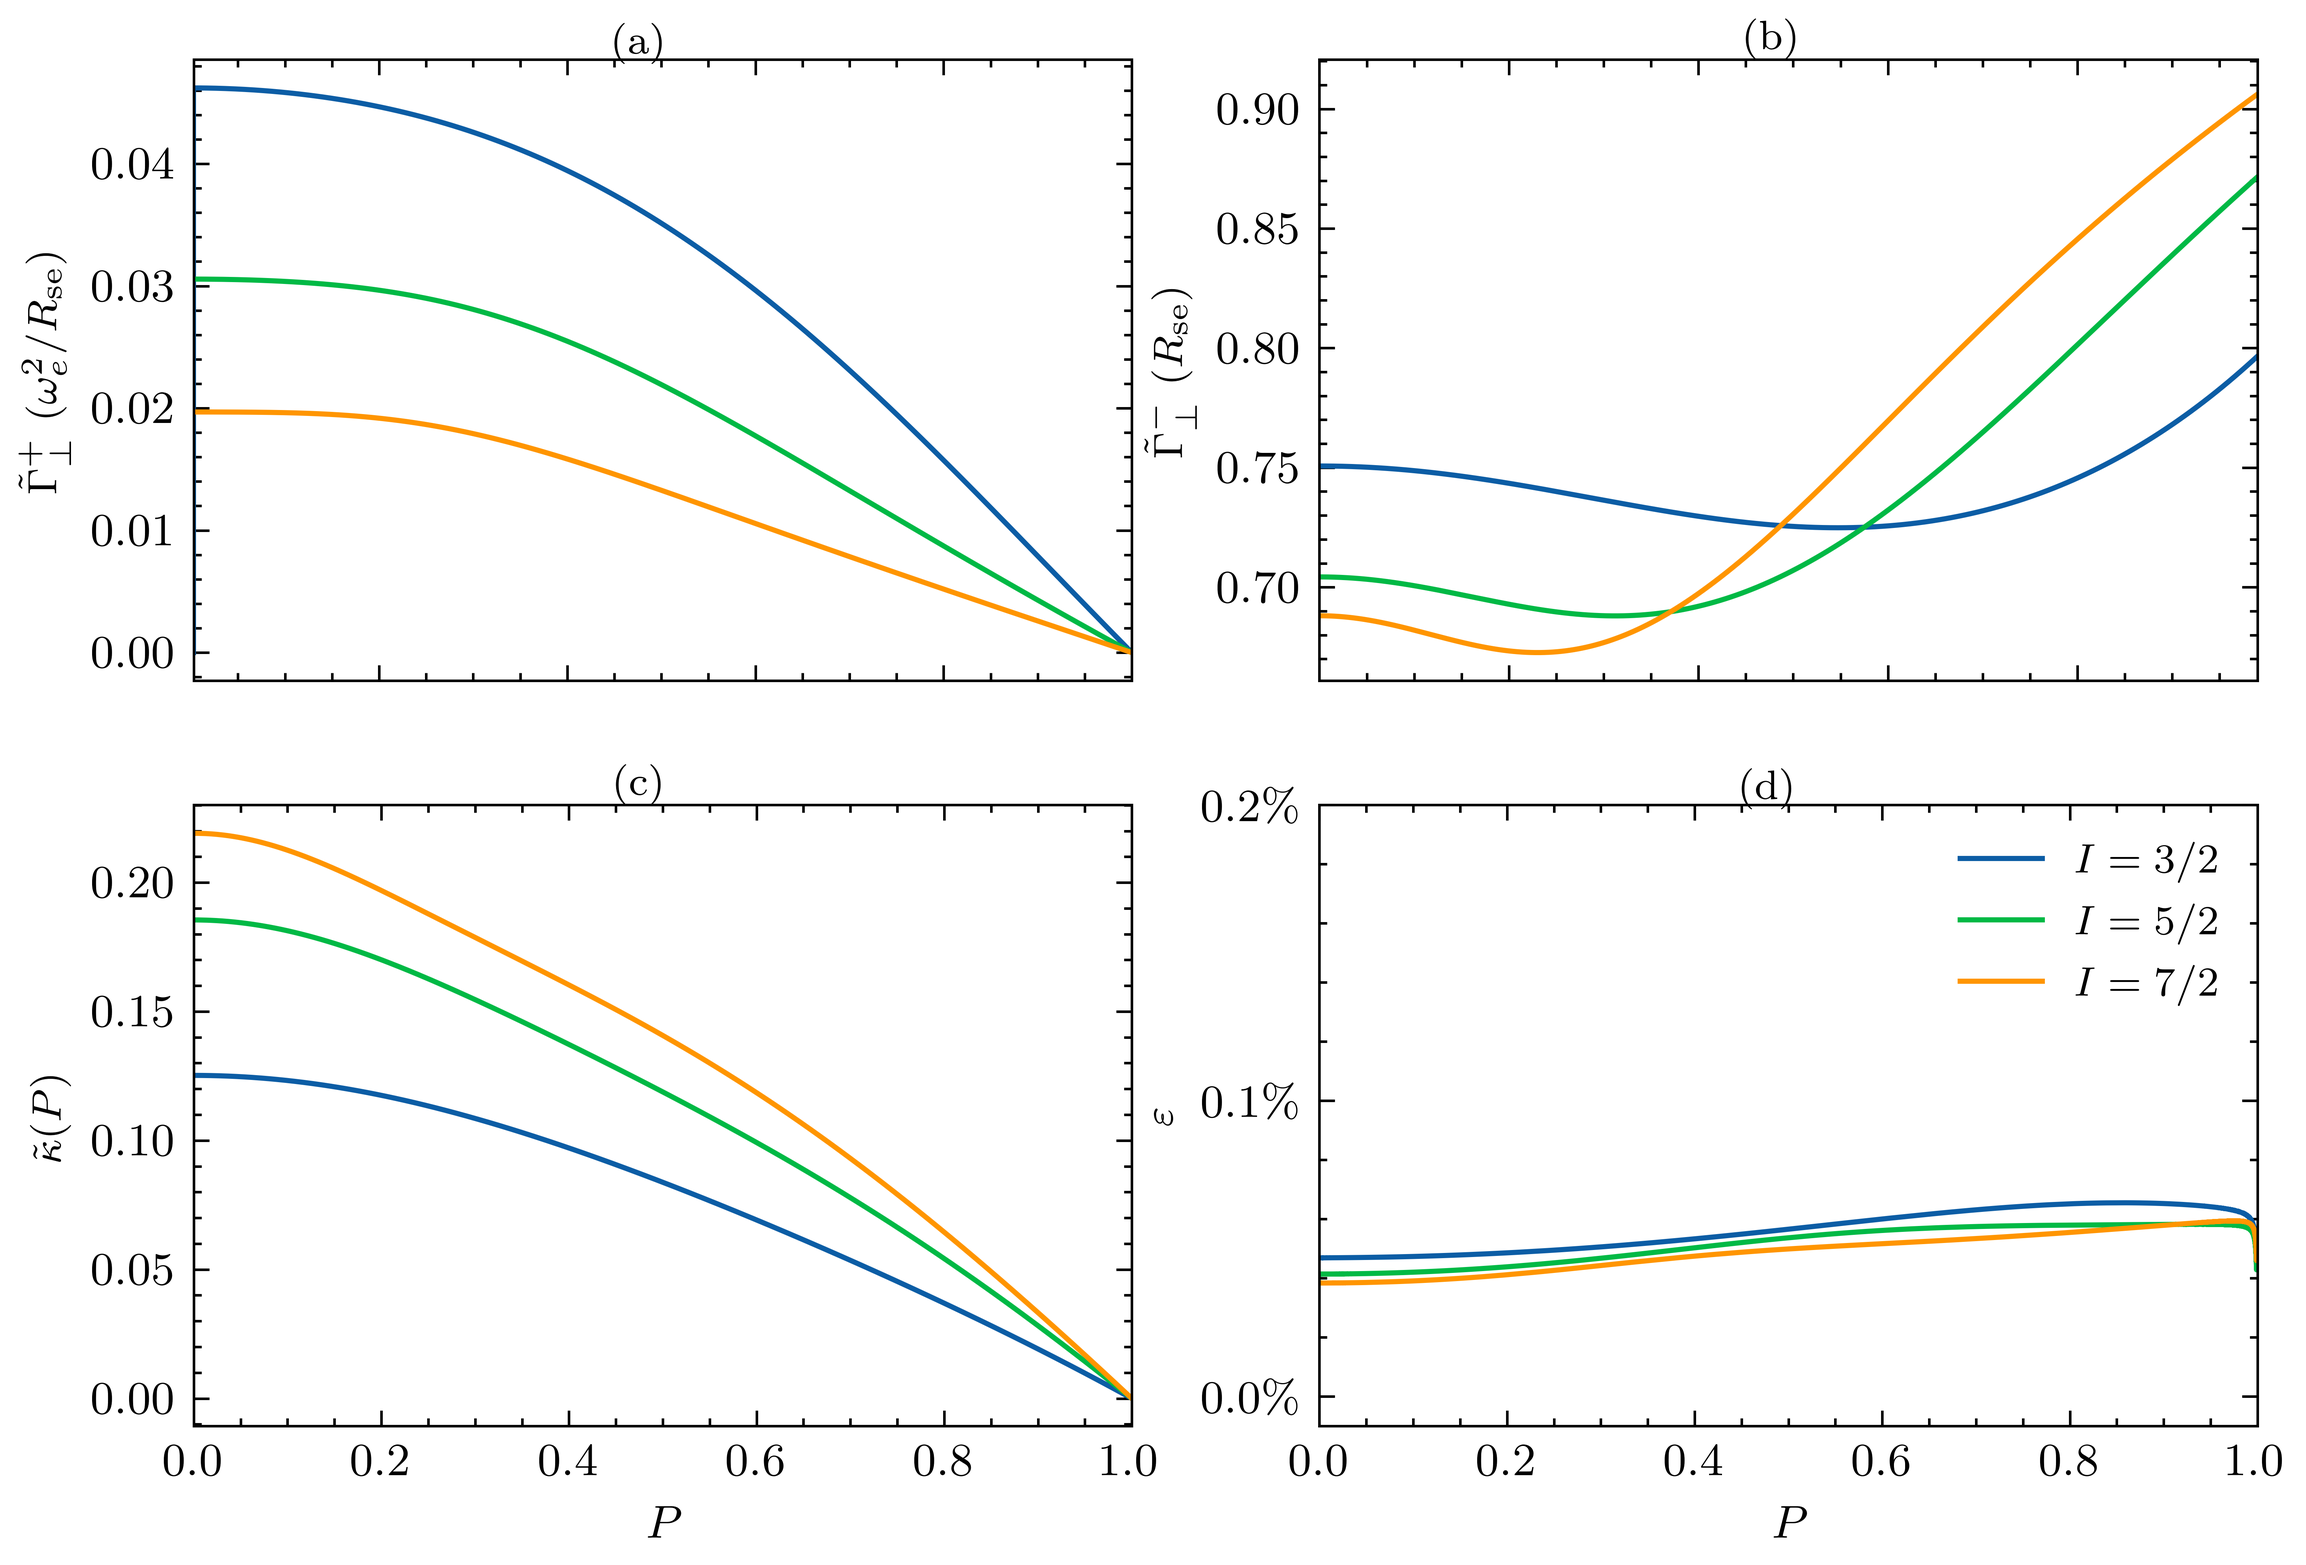
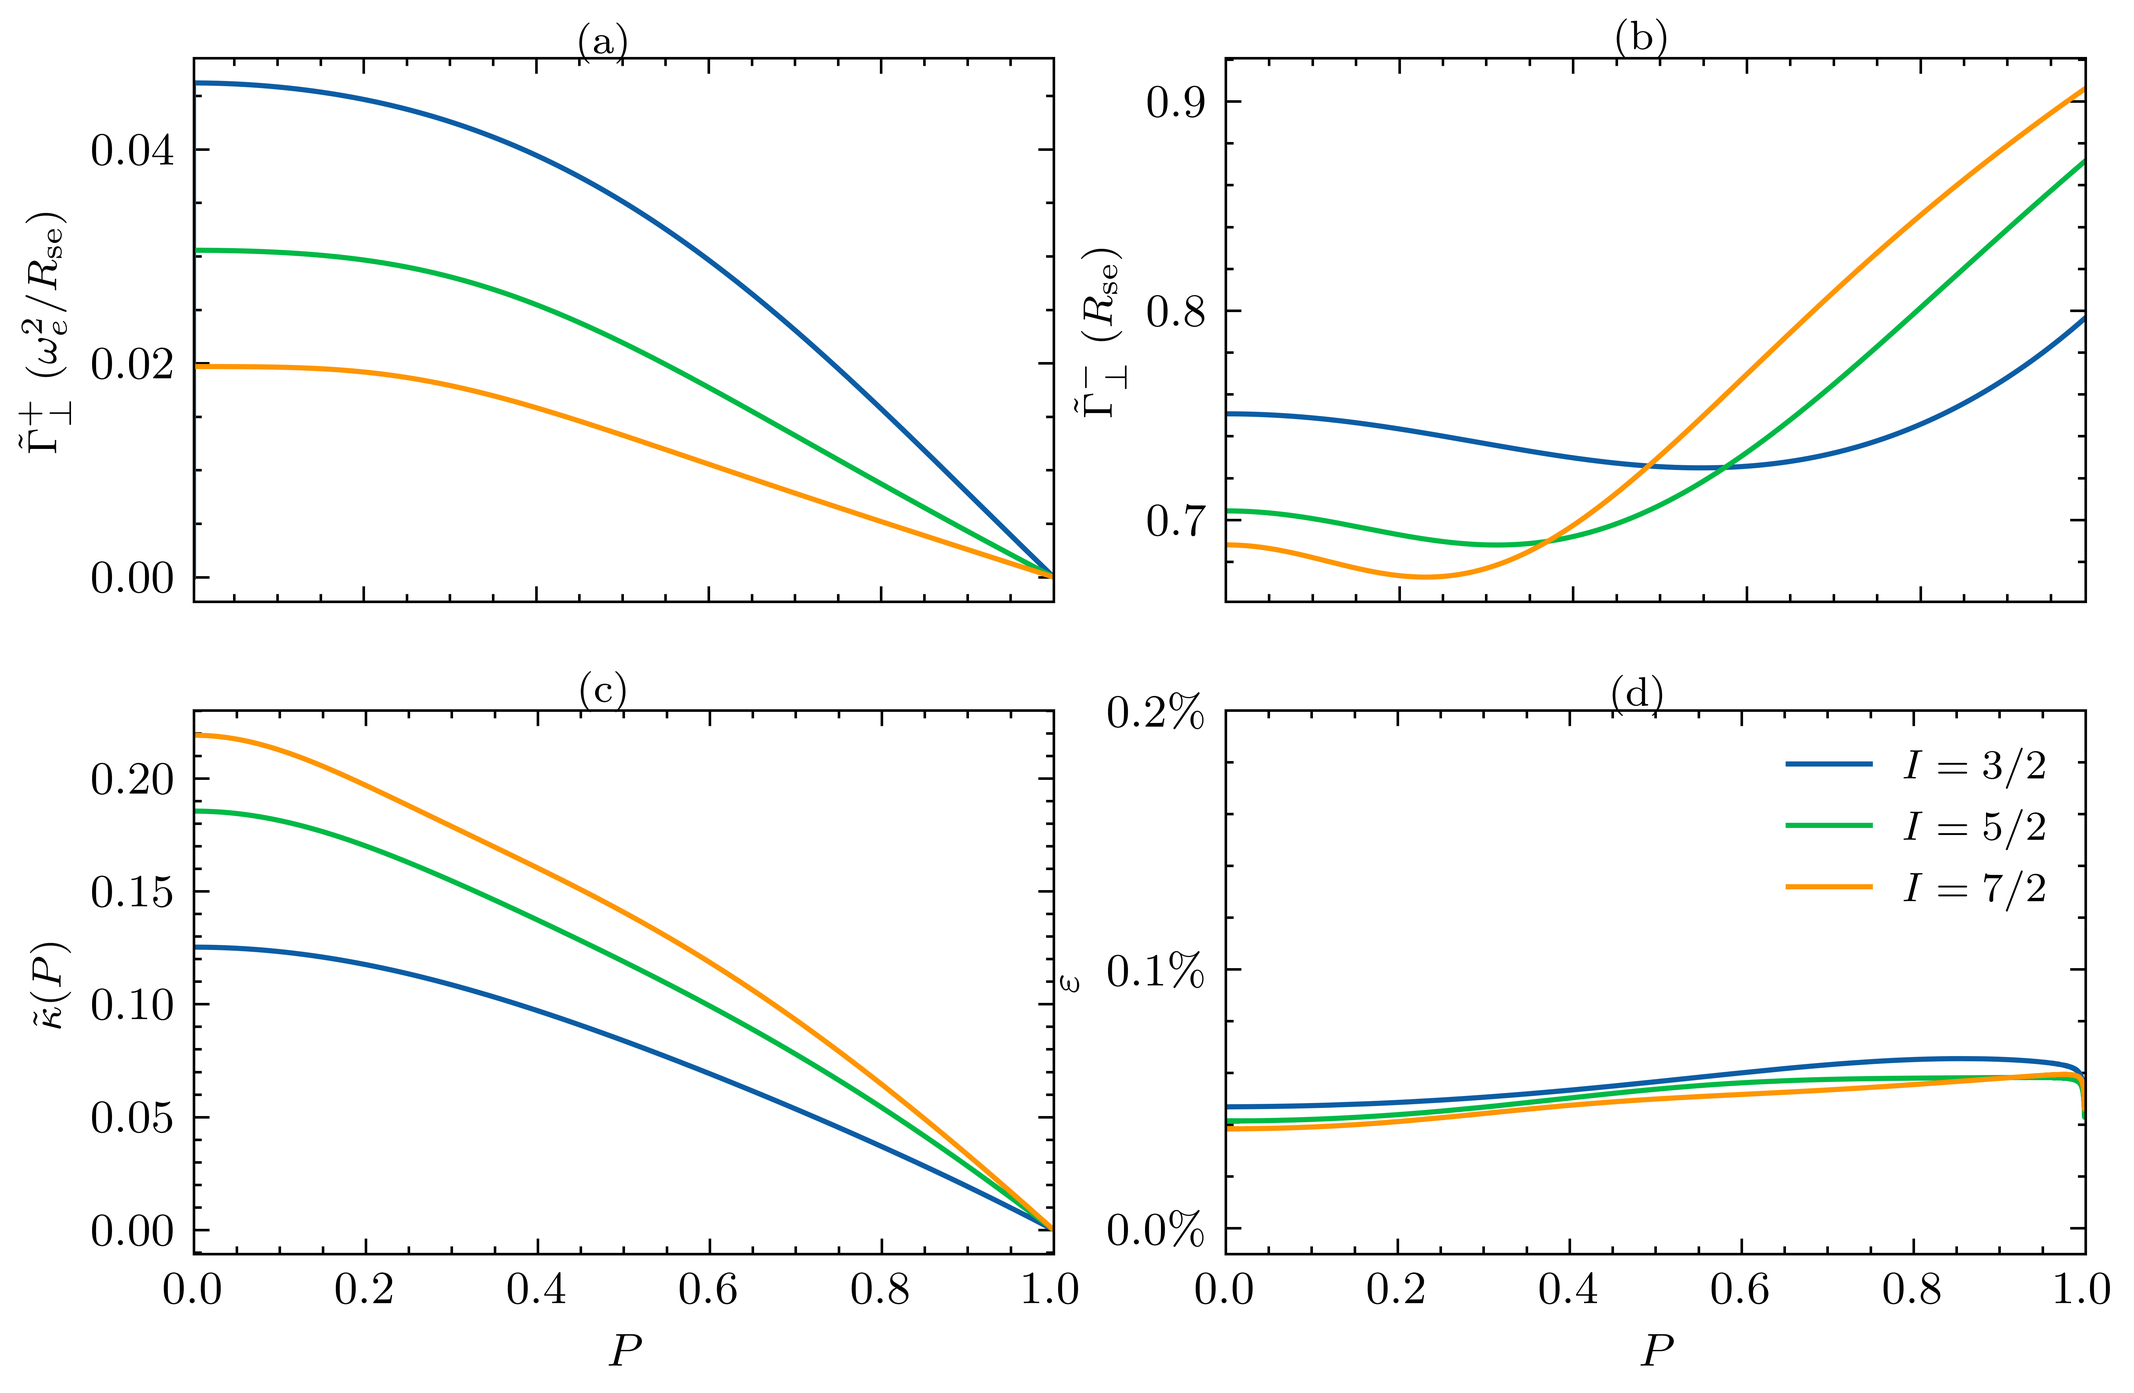
1

diff --git a/EHBE/plotofGamma.py b/EHBE/plotofGamma.py
@@ -41,7 +41,7 @@ kappa3=fp3/DD3
 plt.style.use(['science'])
 with plt.style.context(['science']):
     plt.rc('font',family='Times New Roman')
-    fig = plt.figure(figsize=(7.2, 4.8))
+    fig = plt.figure(figsize=(6.6, 4.2))
     ax4 = fig.add_subplot(224)
     pp,=ax4.plot(PP1,epsilon1)
     pp2,=ax4.plot(PP2,epsilon2)
